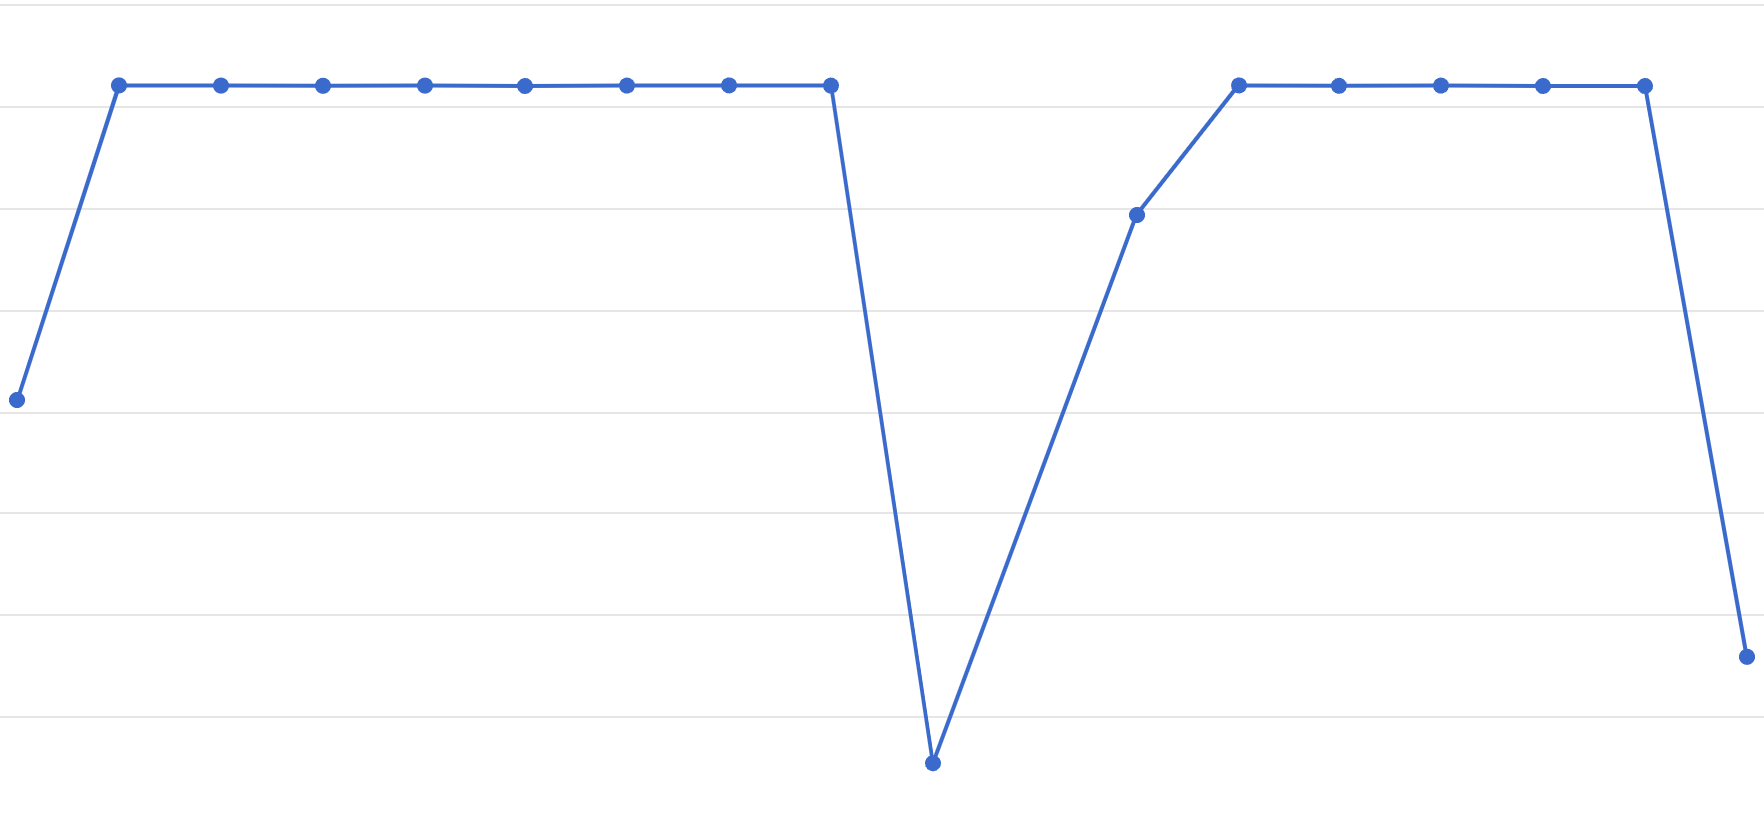
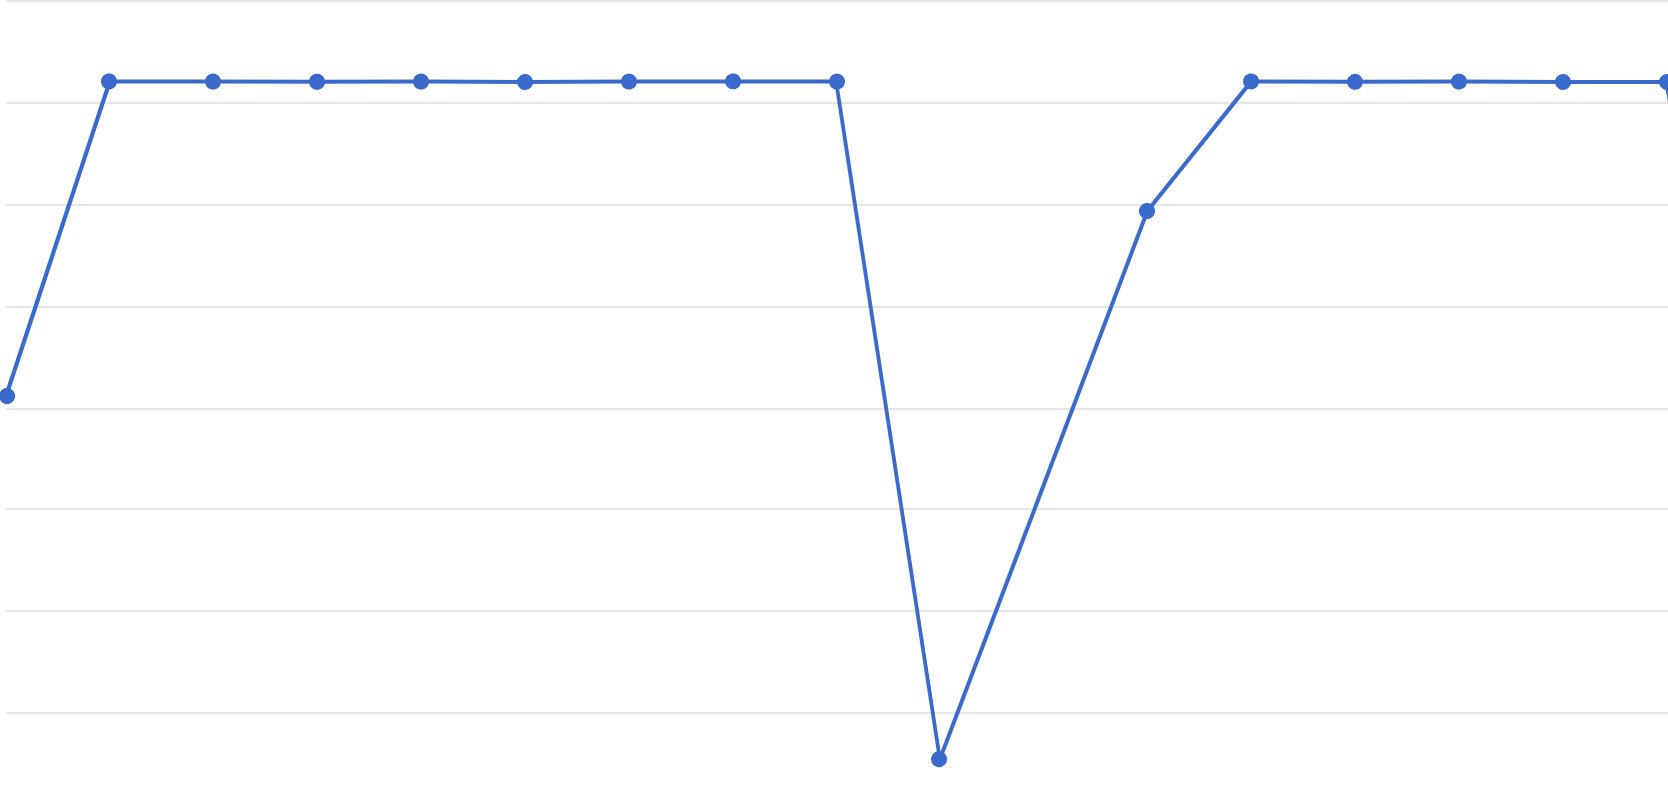
feat: capture the chart cover

diff --git a/src/app/[chain]/chart/page.tsx b/src/app/[chain]/chart/page.tsx
@@ -25,17 +25,17 @@ const getChartData = (network, chain) => {
         {
           title: 'aelf Market Cap Chart',
           path: '/chart/marketcap',
-          imgUrl: ChartSVG,
+          imgUrl: `/image/${network}/${chainPath}marketcap.png?v0.0.2`,
         },
         {
           title: 'ELF Supply Growth Chart',
           path: '/chart/supply-growth',
-          imgUrl: ChartSVG,
+          imgUrl: `/image/${network}/${chainPath}supply-growth.png?v0.0.2`,
         },
         {
           title: 'ELF Staked Chart',
           path: '/chart/staked',
-          imgUrl: ChartSVG,
+          imgUrl: `/image/${network}/${chainPath}staked.png?v0.0.2`,
         },
       ],
     },
@@ -61,7 +61,7 @@ const getChartData = (network, chain) => {
         {
           title: 'ELF Holders Account',
           path: '/chart/holders',
-          imgUrl: ChartSVG,
+          imgUrl: `/image/${network}/${chainPath}holders.png?v0.0.2`,
         },
         {
           title: 'Daily ELF Burnt Chart',
@@ -76,7 +76,7 @@ const getChartData = (network, chain) => {
         {
           title: 'aelf Daily Tx fee Chart',
           path: '/chart/txfee',
-          imgUrl: ChartSVG,
+          imgUrl: `/image/${network}/${chainPath}txfee.png?v0.0.2`,
         },
         {
           title: 'Average Block Size Chart',
@@ -128,7 +128,7 @@ const getChartData = (network, chain) => {
         {
           title: 'Contract Calls Chart',
           path: '/chart/contract-calls',
-          imgUrl: ChartSVG,
+          imgUrl: '/image/table-preview.png?v0.0.2',
         },
       ],
     },

diff --git a/src/_socket/index.ts b/src/_socket/index.ts
@@ -7,7 +7,7 @@ export default function Socket() {
   const [socket, setSocket] = useState<SignalR | null>(null);
   const pathName = usePathname();
   useEffect(() => {
-    const signalR = new SignalR({ url: 'https://testnet.aelfscan.io/api/app/blockchain/explore' });
+    const signalR = new SignalR({ url: '/api/app/blockchain/explore' });
     console.log('signalR---', signalR);
     // if (error !== false) {
     signalR
